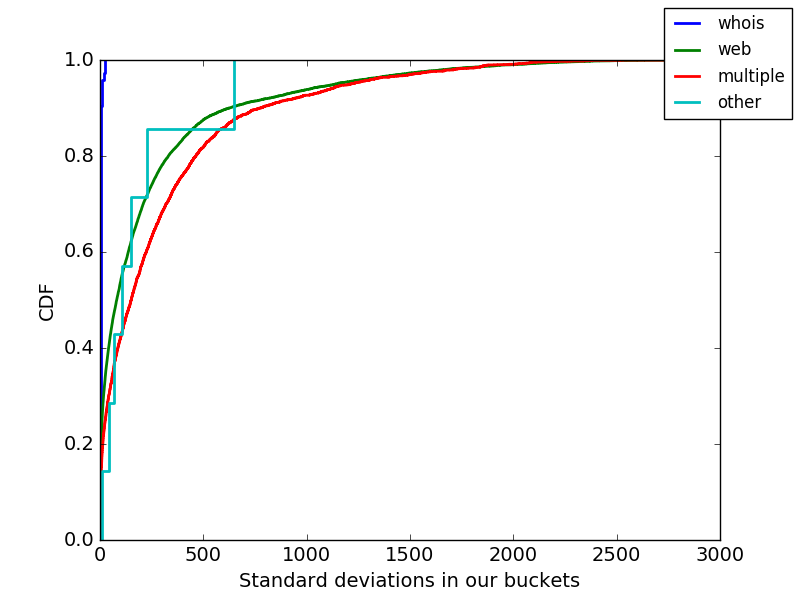
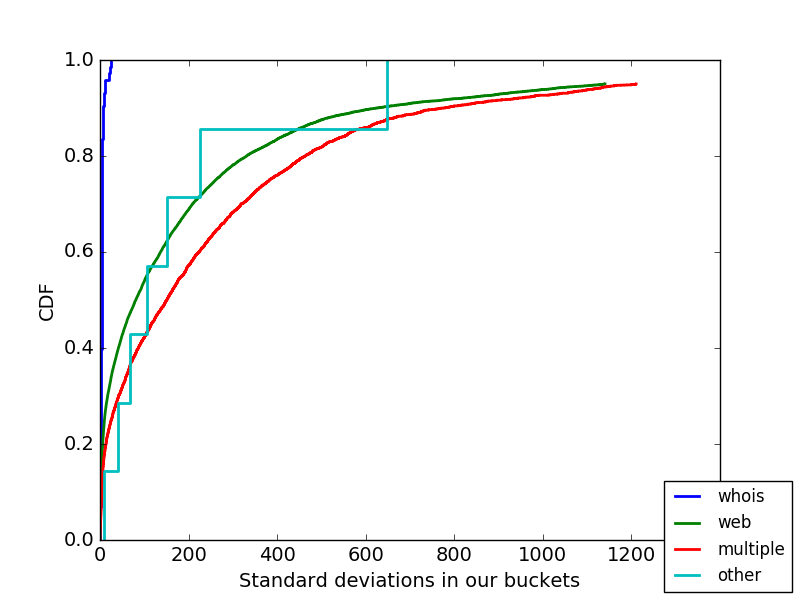
up images and fixes legend position

diff --git a/tools/plot_exit_measurements.py b/tools/plot_exit_measurements.py
@@ -81,7 +81,10 @@ if __name__ == "__main__":
         legends_fig2.extend(ax2.plot(x, y, linewidth=2))
 
         ydata = [x for x in ystddevs if x > 0.0]
-        x, y = getcdf(ydata, shownpercentile=1)
+        if (ydata[-1] > 2000):
+            x, y = getcdf(ydata, shownpercentile=0.95)
+        else:
+            x, y = getcdf(ydata, shownpercentile=1)
         legends_fig3.extend(ax3.plot(x, y, linewidth=2))
 
     ax1.set_xlabel('Seconds since the DNS resolve succeeded')
@@ -89,15 +92,15 @@ if __name__ == "__main__":
     labels = []
     for filename in filenames:
         labels.append(filename.split('_')[2])
-    fig1.legend(legends_fig1, labels, loc='best')
+    fig1.legend(legends_fig1, labels, loc='upper right')
     fig1.savefig('exitmeasurement.png')
     ax2.set_xlabel('Total cell counts')
     ax2.set_ylabel('CDF')
-    fig2.legend(legends_fig2, labels, loc='best')
+    fig2.legend(legends_fig2, labels, loc='lower right')
     fig2.savefig('totcellcountscdf.png')
     ax3.set_xlabel('Standard deviations in our buckets')
     ax3.set_ylabel('CDF')
-    fig3.legend(legends_fig3, labels, loc='best')
+    fig3.legend(legends_fig3, labels, loc='lower right')
     fig3.savefig('stddevs.png')
 
 
